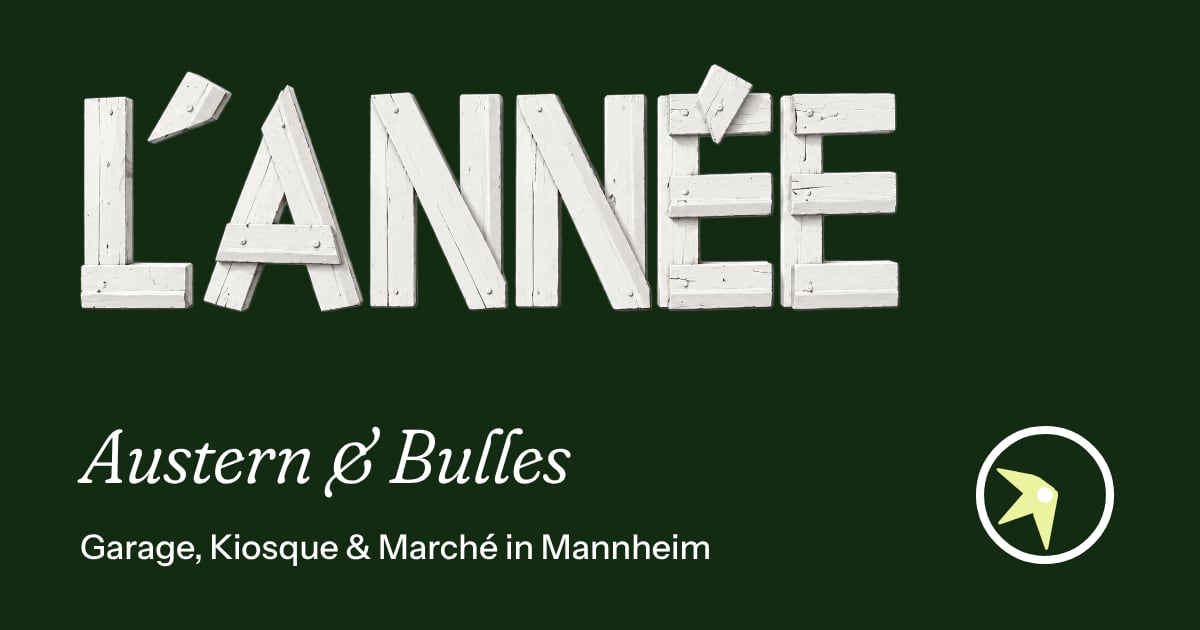
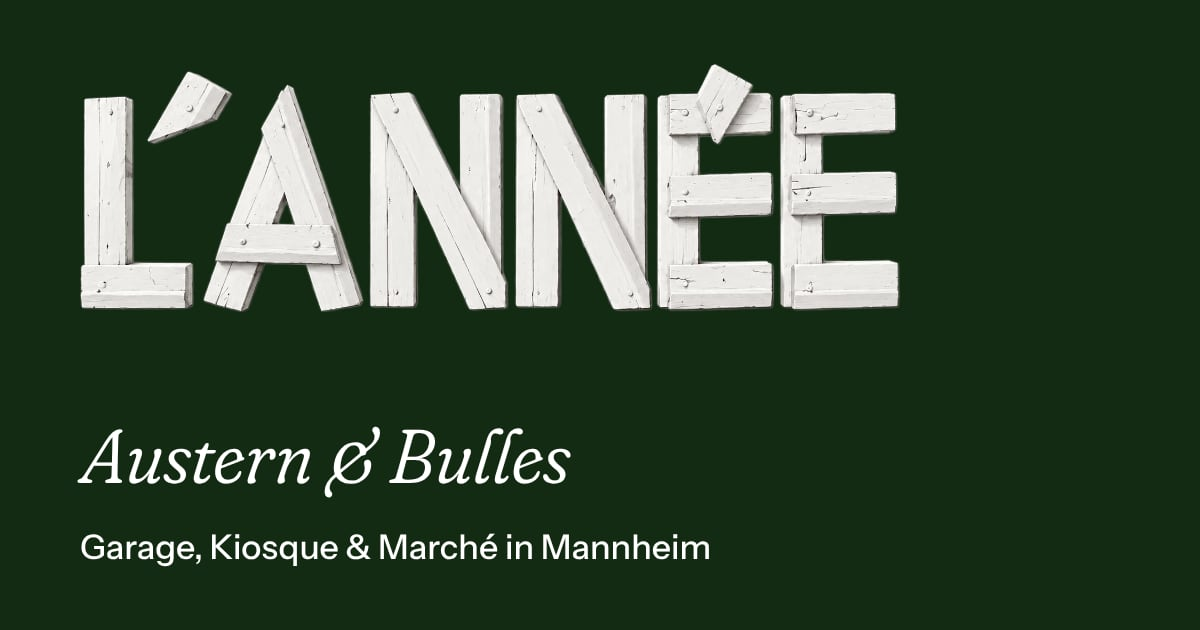
Uhren (Signets) überall entfernt
- Weg aus Fußzeile, Zitat und „Weitere Orte“ auf den Ortsseiten, Kontakt-Karten,
  Filter und Orts-Tags der Karte, Styleguide und dem Share-Bild L’ANNÉE
- Komponente signet(), Zeiger-Geometrie (accent-hand.txt), Signet-CSS und das
  Feld `hour` der Orte gelöscht; Layouts von Zitat und „Weitere Orte“ ohne Uhr-Spalte
- CLAUDE.md, Konzept, Styleguide-Texte und Farbrollen angepasst

Claude-Session: https://claude.ai/code/session_0135uWaFD6hWKxL6VzFXjVpf

Changed region(s): [[0.8017, 0.6635, 0.925, 0.9048]]

diff --git a/src/styles/03-components.css b/src/styles/03-components.css
@@ -90,45 +90,6 @@
   height: 1em;
 }
 
-/* Signets ----------------------------------------------------------------- */
-
-.signet {
-  width: 1em;
-  height: 1em;
-  overflow: visible;
-  flex: none;
-}
-.signet__ring {
-  fill: none;
-  stroke: currentColor;
-  stroke-width: 13;
-}
-.signet__hand {
-  fill: currentColor;
-}
-.signet__pivot {
-  fill: var(--signet-pivot, var(--blanc));
-  stroke: currentColor;
-  stroke-width: 7;
-}
-.signet--garage { color: var(--garage); }
-.signet--kiosque { color: var(--kiosque); }
-.signet--marche { color: var(--marche); }
-.signet--all { color: var(--ink); }
-.signet--all .signet__hand--garage { fill: var(--garage); }
-.signet--all .signet__hand--kiosque { fill: var(--kiosque); }
-.signet--all .signet__hand--marche { fill: var(--marche); }
-
-.theme-garage .signet,
-.theme-kiosque .signet,
-.theme-marche .signet {
-  color: var(--blanc);
-  --signet-pivot: var(--bg);
-}
-.theme-ink .signet--garage { color: var(--lime); --signet-pivot: var(--ink); }
-.theme-ink .signet--kiosque { color: var(--lime); --signet-pivot: var(--ink); }
-.theme-ink .signet--marche { color: var(--lime); --signet-pivot: var(--ink); }
-
 /* Logo: weiße Holzbuchstaben als Bild (siehe logo() in components.mjs) -------- */
 /* Die Box hält das Seitenverhältnis des Bildes (--logo-ratio kommt aus dem Markup);
    gesetzt wird entweder die Höhe (Kopfzeile, Lockup) oder die Breite (Hero, Fußzeile). */
@@ -301,22 +262,17 @@
   display: inline-flex;
   align-items: center;
   gap: 0.35em;
-  padding: 0.28em 0.7em 0.28em 0.4em;
+  padding: 0.28em 0.7em;
   border-radius: 999px;
   font-size: 0.75rem;
   font-weight: 600;
   line-height: 1.1;
   letter-spacing: 0.02em;
 }
-.tag__signet {
-  width: 1.15em;
-  height: 1.15em;
-}
 /* Grüne Fläche, weiße Schrift */
 .tag--garage { background: var(--garage); color: var(--blanc); }
 .tag--kiosque { background: var(--kiosque); color: var(--blanc); }
 .tag--marche { background: var(--marche); color: var(--blanc); }
-.tag .signet { color: var(--blanc); --signet-pivot: transparent; }
 
 .chip {
   display: inline-flex;
@@ -333,10 +289,6 @@
   cursor: pointer;
   transition: background-color 0.2s, color 0.2s, border-color 0.2s;
 }
-.chip__signet {
-  width: 1.2em;
-  height: 1.2em;
-}
 .chip:hover {
   background: var(--blanc);
 }
@@ -347,7 +299,6 @@
 .chip--garage[aria-pressed='true'] { background: var(--garage); border-color: var(--garage); }
 .chip--kiosque[aria-pressed='true'] { background: var(--kiosque); border-color: var(--kiosque); }
 .chip--marche[aria-pressed='true'] { background: var(--marche); border-color: var(--marche); color: var(--blanc); }
-.chip[aria-pressed='true'] .signet { color: currentColor; --signet-pivot: transparent; }
 
 /* Live-Anzeige ------------------------------------------------------------- */
 

diff --git a/src/styles/05-pages.css b/src/styles/05-pages.css
@@ -6,8 +6,8 @@
 /*
  * Ein Dach, drei Orte: Das Stimmungsbild füllt den ersten Bildschirm. Darauf steht
  * L’ANNÉE in Weiß mit „Austern & Bulles“, unten die drei Orte als Farbbänder
- * (Garage Evergreen, Kiosque Hunter Green, Marché Fern) – jedes ein Link mit Signet,
- * Name, Zusatz, Zeit und Ort. Beim Scrollen schrumpft das weiße Logo in die grüne
+ * (Garage Evergreen, Kiosque Hunter Green, Marché Fern) – jedes ein Link mit
+ * Name, Zusatz, Zeit und Ort (ohne Uhren). Beim Scrollen schrumpft das weiße Logo in die grüne
  * Kopfzeile.
  */
 
@@ -1150,11 +1150,6 @@ body:has(.stoerer) .hero__toggle {
   padding: var(--space-2xl) var(--gutter);
   align-items: center;
 }
-.quote__signet {
-  width: clamp(4.5rem, 3rem + 7vw, 11rem);
-  height: auto;
-  aspect-ratio: 1;
-}
 .quote__text {
   font-family: var(--font-display);
   font-style: italic;
@@ -1169,12 +1164,6 @@ body:has(.stoerer) .hero__toggle {
 }
 .quote__text p::after {
   content: close-quote;
-}
-@media (min-width: 1024px) {
-  .quote {
-    grid-template-columns: auto minmax(0, 1fr);
-    gap: var(--space-xl);
-  }
 }
 
 .intro {
@@ -1399,20 +1388,14 @@ body:has(.stoerer) .hero__toggle {
 .other {
   position: relative;
   display: grid;
-  grid-template-columns: auto minmax(0, 1fr) auto;
+  grid-template-columns: minmax(0, 1fr) auto;
   grid-template-areas:
-    'signet name arrow'
-    'signet when arrow';
+    'name arrow'
+    'when arrow';
   column-gap: var(--space-m);
   align-items: center;
   padding: var(--space-xl) var(--gutter);
   text-decoration: none;
-}
-.other__signet {
-  grid-area: signet;
-  width: clamp(3rem, 2rem + 3vw, 5.5rem);
-  height: auto;
-  aspect-ratio: 1;
 }
 .other__name {
   grid-area: name;
@@ -1577,12 +1560,6 @@ body:has(.stoerer) .hero__toggle {
   align-content: start;
   padding: var(--space-xl) var(--gutter);
 }
-.contact-card__signet {
-  width: clamp(3rem, 2rem + 3vw, 5rem);
-  height: auto;
-  aspect-ratio: 1;
-  margin-bottom: var(--space-s);
-}
 .contact-card__name {
   font-size: var(--fs-h3);
   font-weight: 330;
@@ -1719,21 +1696,6 @@ body:has(.stoerer) .hero__toggle {
   .sg__cols {
     grid-template-columns: repeat(2, minmax(0, 1fr));
   }
-}
-.sg__rules {
-  margin-top: var(--space-s);
-  padding-left: 1.2em;
-}
-.sg__signets {
-  display: flex;
-  flex-wrap: wrap;
-  gap: var(--space-m);
-  align-items: center;
-}
-.sg__signet {
-  width: clamp(4.5rem, 3rem + 5vw, 9rem);
-  height: auto;
-  aspect-ratio: 1;
 }
 .sg__venues {
   display: grid;

diff --git a/src/styles/04-layout.css b/src/styles/04-layout.css
@@ -293,14 +293,6 @@
   line-height: 1;
   text-decoration: none;
 }
-.footer-place__signet {
-  width: 0.85em;
-  height: 0.85em;
-  --signet-pivot: var(--ink);
-}
-.site-footer .signet--garage { color: var(--lime); }
-.site-footer .signet--kiosque { color: var(--lime); }
-.site-footer .signet--marche { color: var(--lime); }
 .footer-place__when {
   font-weight: 600;
 }

diff --git a/CLAUDE.md b/CLAUDE.md
@@ -11,7 +11,7 @@ Website der Dachmarke L’ANNÉE (Austern & Bulles, Mannheim) mit Garage, Kiosqu
 - Keine Cookies, kein Tracking, keine externen Requests (CSP in `vercel.json`). Karten nur als Links.
 - **Nur Grün:** Evergreen #132A13, Hunter Green #31572C, Fern #4F772D, Palm Leaf #90A955, Lime Cream #ECF39E und Weiß. Entweder grüne Fläche mit weißer Schrift oder weiße Fläche mit grüner Schrift; nichts Schwarzes, nichts Graues (statt Schwarz: Evergreen). In CSS nur die Variablen aus `tokens.mjs` (`--ink`, `--garage`, `--kiosque`, `--marche`, `--brand`, `--muted`, `--palm`, `--lime`, `--blanc`), keine festen Farbwerte.
 - **Slogan am Logo immer übersetzt** (Vorgabe 01.11.2026): DE „Austern & Bulles“, FR „Huîtres & Bulles“, EN „Oysters & Bulles“ (`SITE.taglines`; gilt für Kopfzeile, Hero und Lockups). „Bulles“ bleibt französisch, nie „Bläschen“.
-- Keine Uhren (Signets) in der Navigation, weder in der Kopfzeile noch im mobilen Menü (Vorgabe 31.10.2026).
+- **Keine Uhren (Signets) mehr – nirgends** (Vorgabe 03.11.2026): nicht in Navigation, Fußzeile, Zitaten, Karte (Filter, Tags), Kontakt, „Weitere Orte“, Styleguide oder auf den Share-Bildern. Die Komponente `signet()` ist gelöscht; nicht wieder einführen.
 - **Logo = weiße Holzbuchstaben** (Vorgabe 03.11.2026): freigestelltes Rasterbild, Quelle `assets-src/logo-lannee-holz.png`, Varianten mit `npm run images -- logo-lannee` (schneidet zu, macht die Buchstaben voll deckend, AVIF/WebP 240–1563 px). Eingebunden über `logo()` in `components.mjs` als `<picture>`; `src/icons/logo-raw.svg` liefert nur noch das Favicon. **Weiß gehört auf Grün:** Das Logo steht nie auf Weiß – Kopfzeile, Hero, Fußzeile und alle Lockups (auch die Köpfe der Ortsseiten) liegen auf Grün. Die Wander-Animation (`initLogoMorph()`) bleibt wie sie ist.
 - **Kopfzeile grün** (Evergreen) mit **weißem Logo** und weißer Navigation (aktiv/hover Lime Cream); auch das große Logo im Hero ist weiß (Vorgabe 31.10.2026). Das mobile Menü bleibt weiß mit grüner Schrift.
 - **Kopfzeile:** Neben dem Logo steht der Slogan (feine Linie dazwischen) – auf allen Bildschirmbreiten. Auf der Startseite wandern großes Logo und Slogan beim Scrollen skaliert in ihre Endposition in der Kopfzeile (Logo · Linie · Slogan), im Vordergrund über allem; angekommen blendet die Trennlinie ein (Vorgabe 01.11.2026, bestätigt 03.11.2026).
